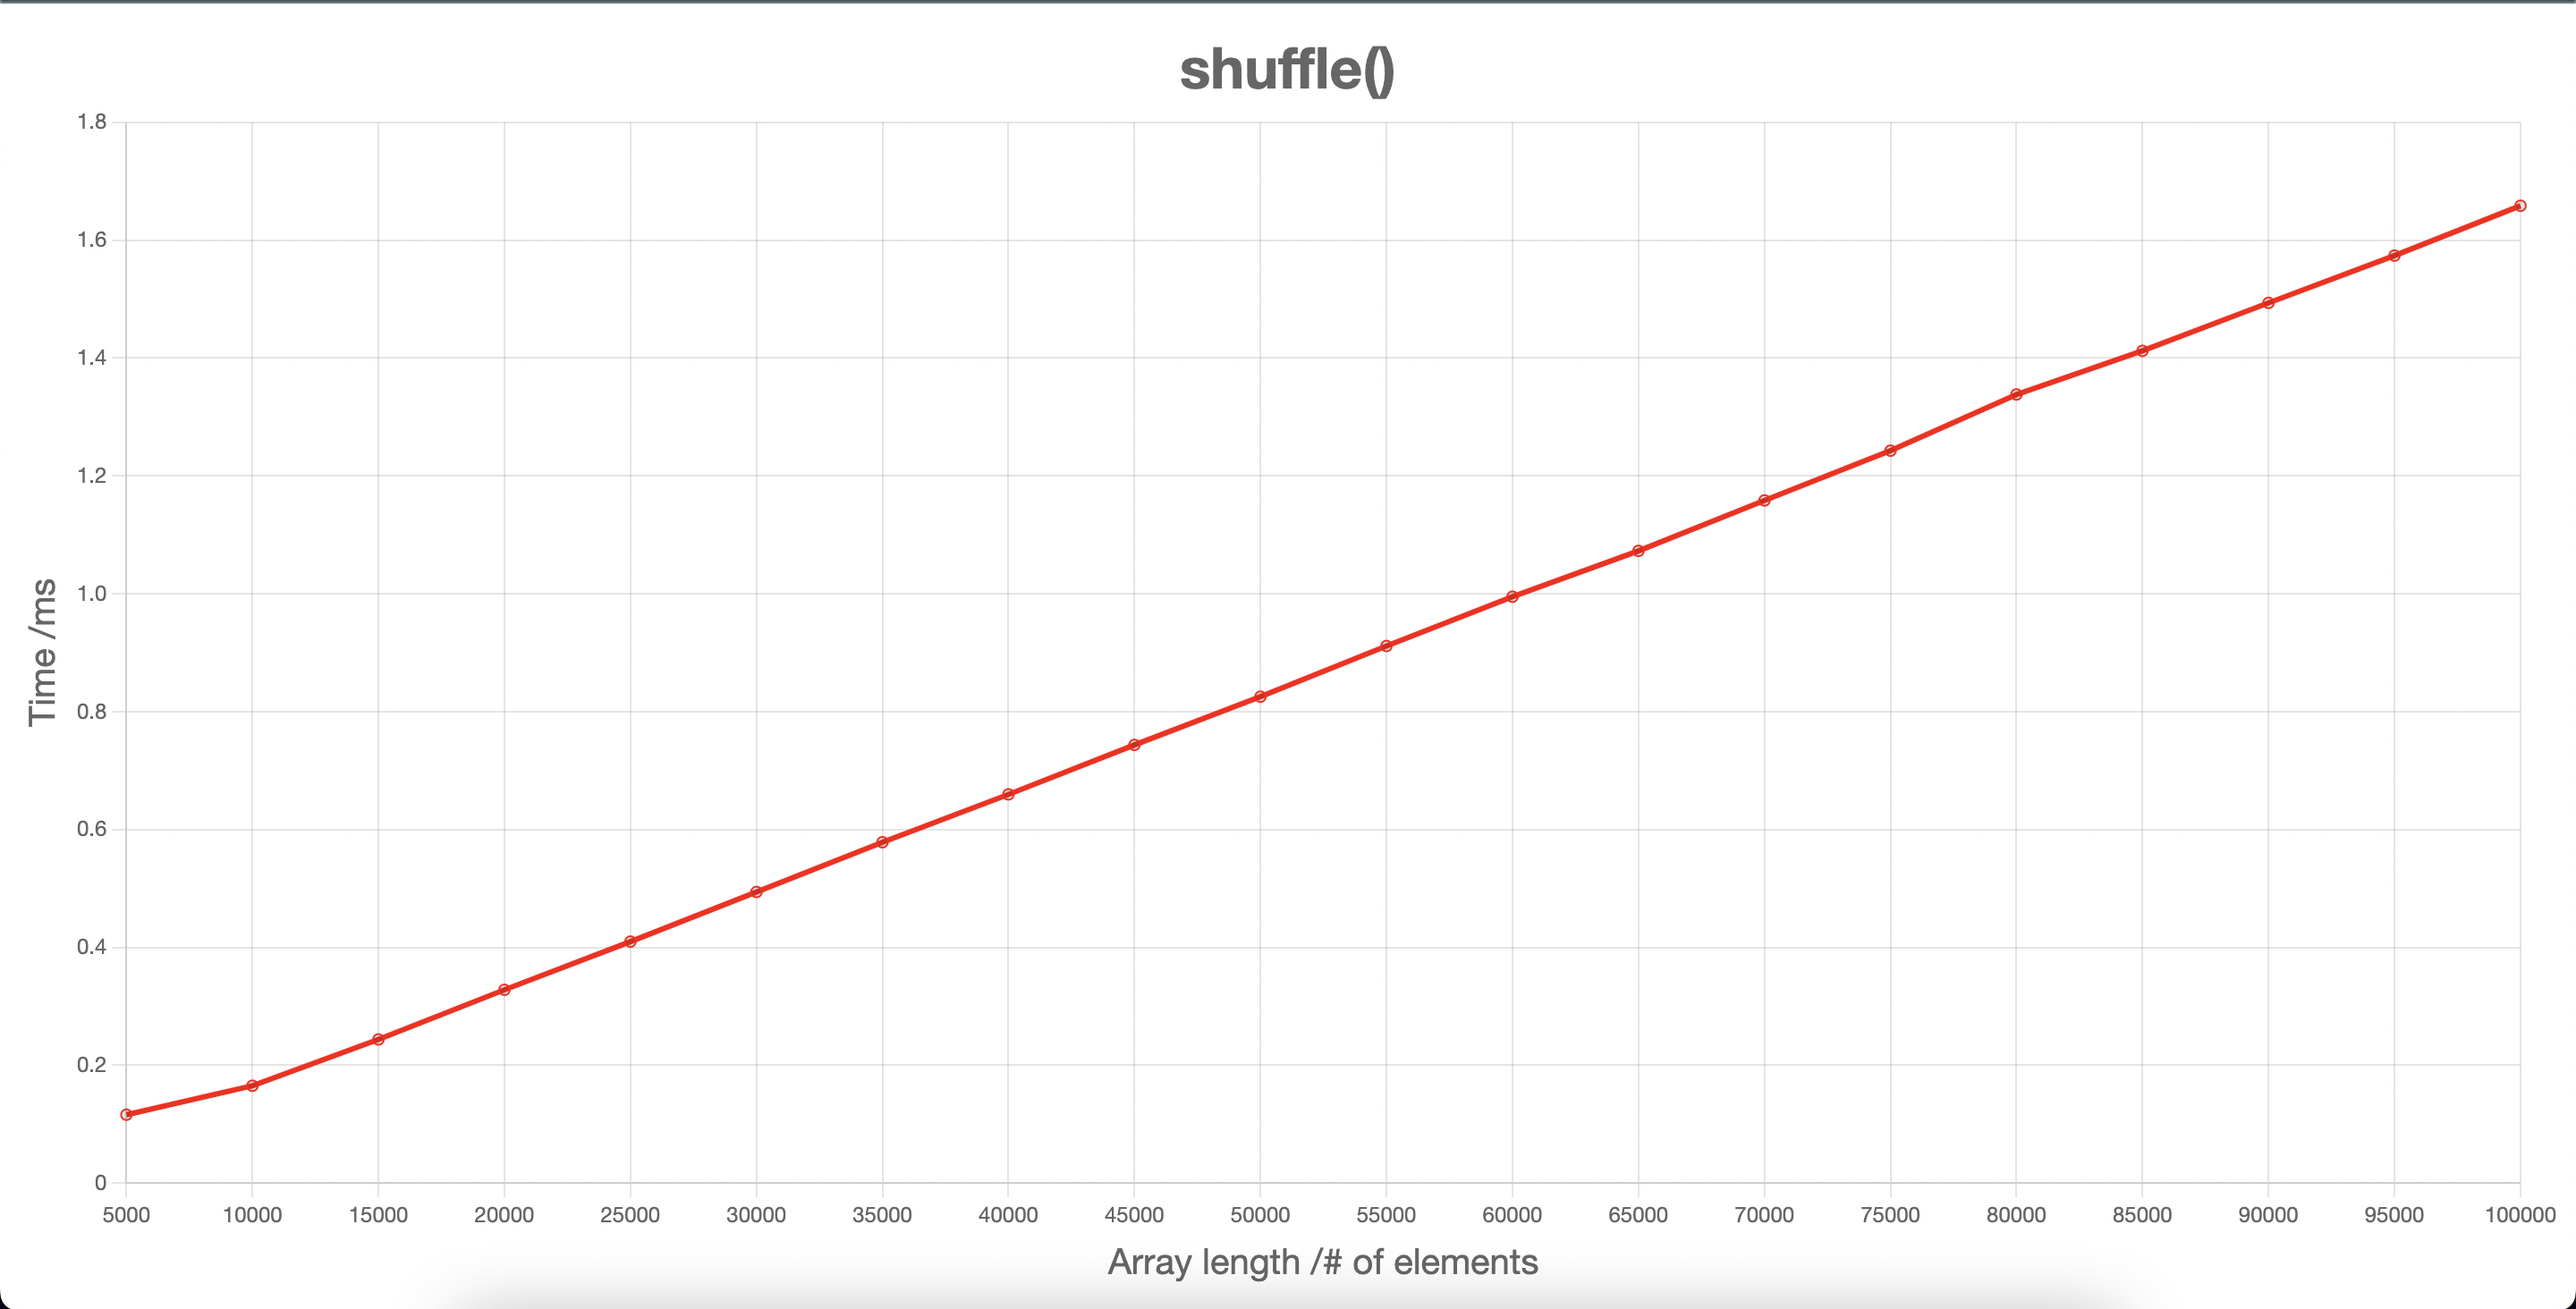
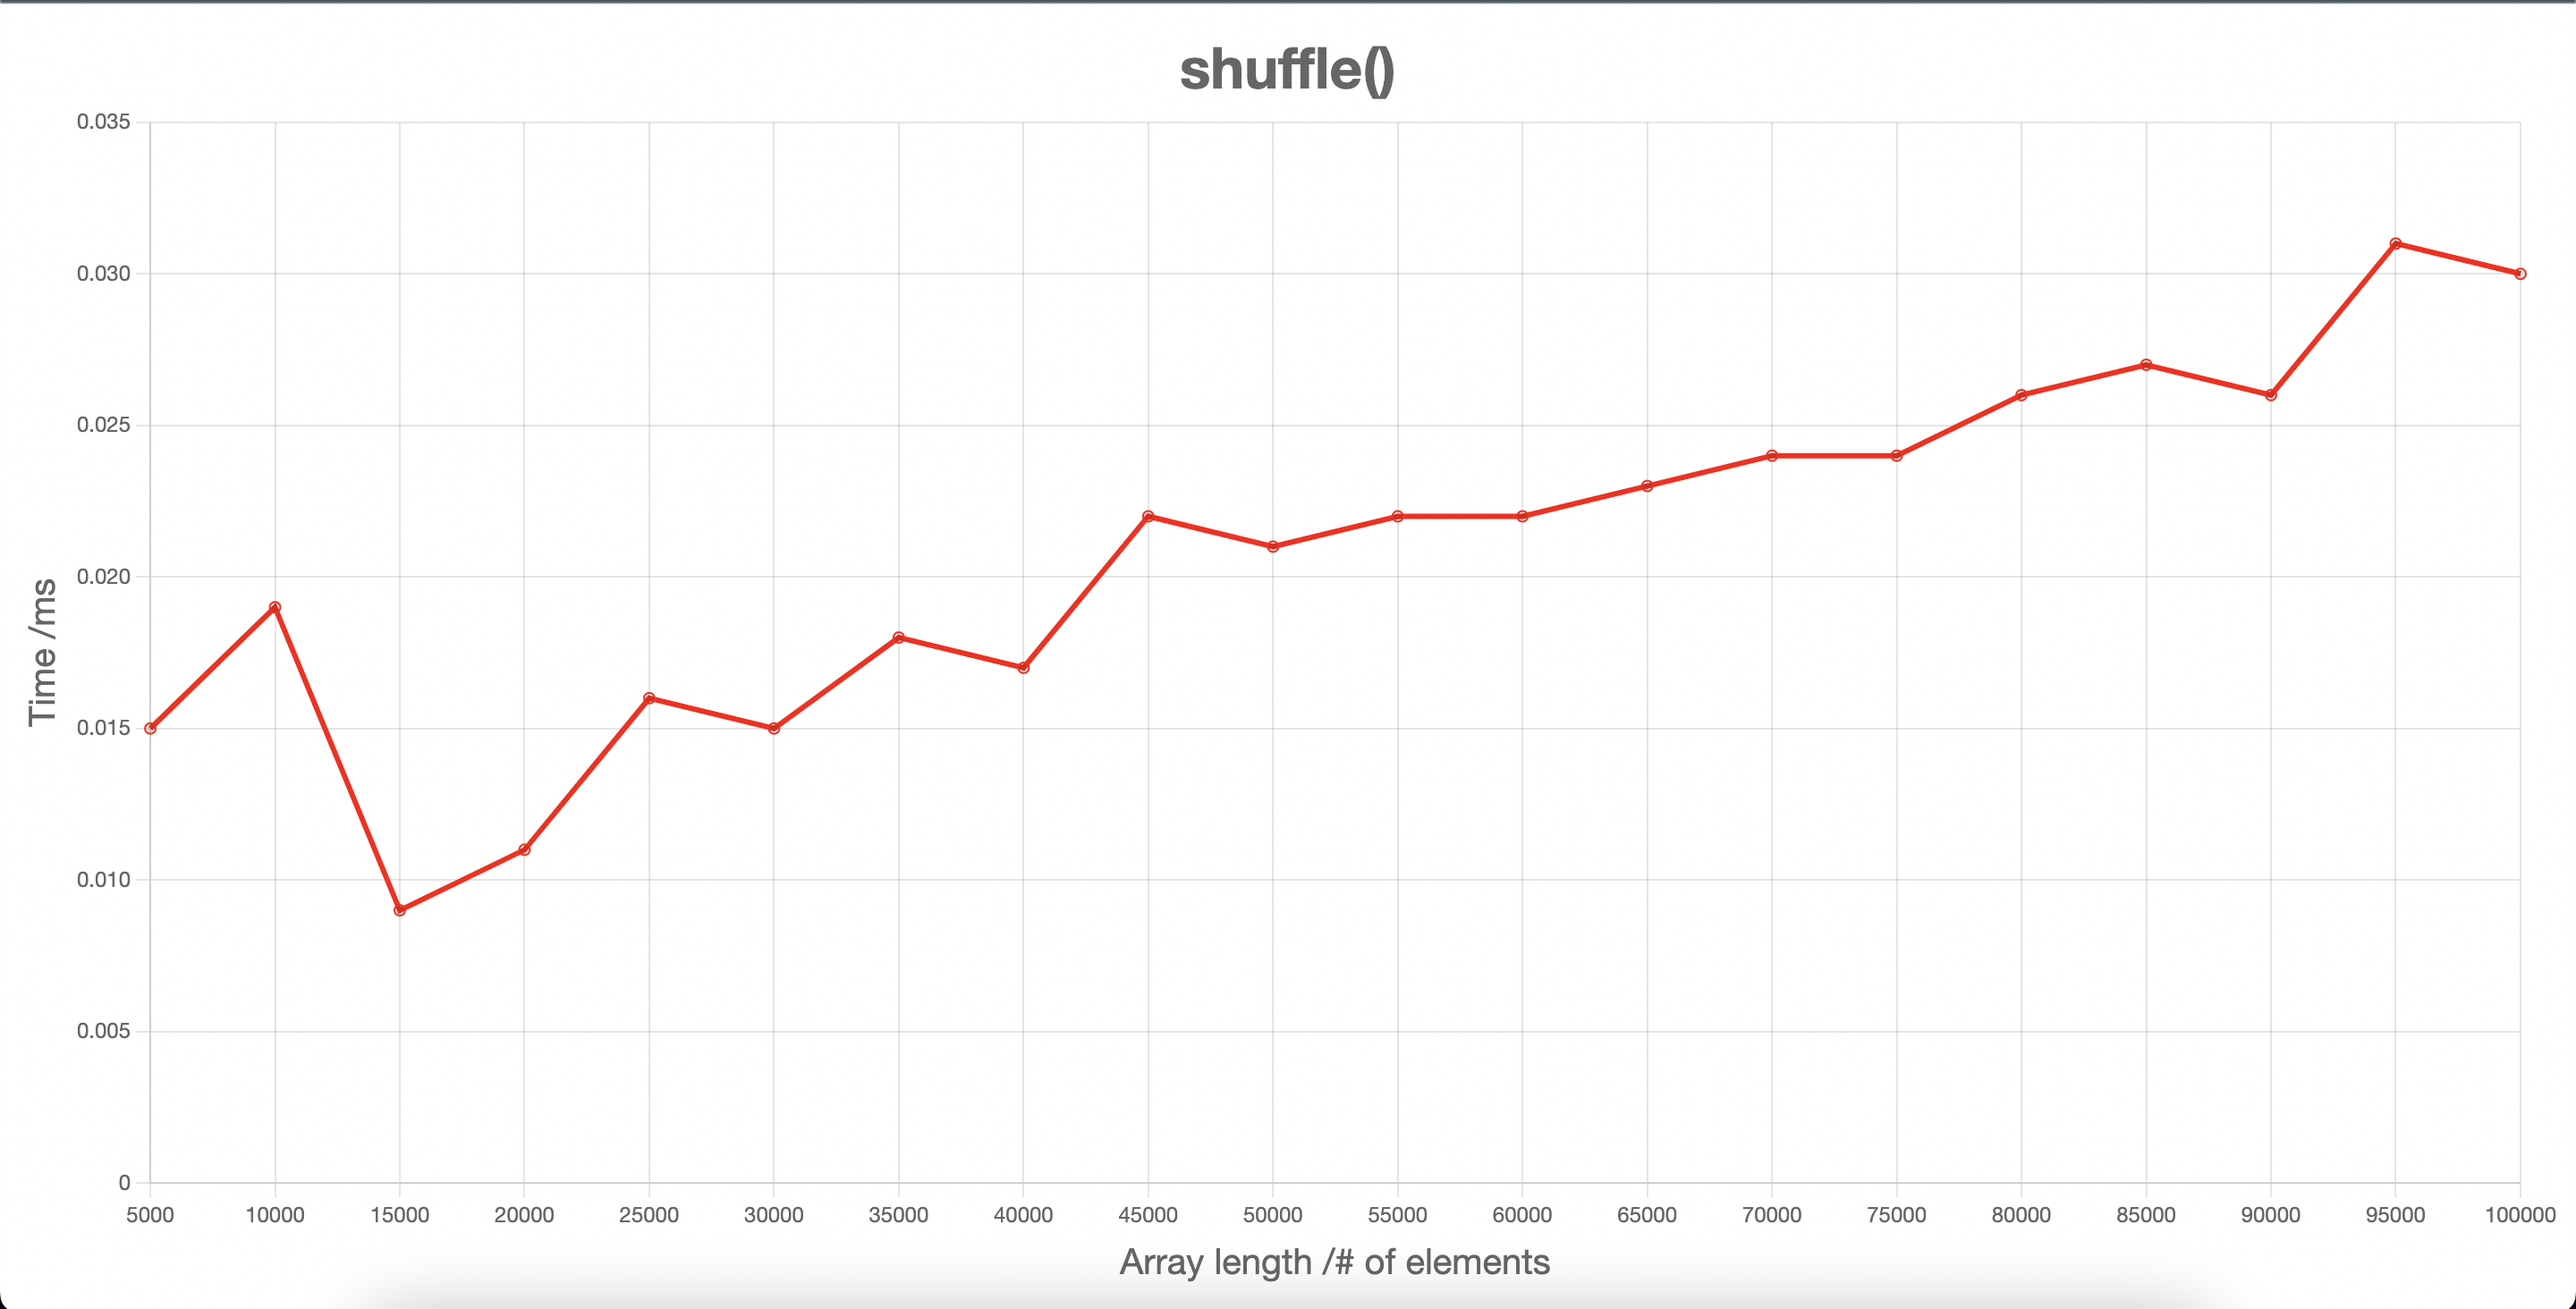
Big changes
Tidy up a lot of the code and graphs so that feature tests are faster.
Make the timing graph for the merge sort function.

diff --git a/custom-algorithms/sort/plotSort.js b/custom-algorithms/sort/plotSort.js
@@ -1,14 +1,15 @@
 /* eslint-disable no-undef */
 const Chart = require("chart.js");
+const createSortDataPoint = require("./createSortDataPoint");
 const saveData = require("../saveData");
-const duplicate = require("./duplicate");
+const sort = require("./sort");
 
 const xValues = [];
 for (i = 1; i < 21; i++) {
-  xValues.push(5000 * i);
+  xValues.push(50 * i);
 }
 
-const yValues = saveData(duplicate, 100);
+const yValues = saveData(sort, 100, 50, createSortDataPoint);
 
 new Chart("myChart", {
   type: "line",
@@ -29,7 +30,7 @@ new Chart("myChart", {
         font: {
           size: 32,
         },
-        text: "duplicate()",
+        text: "merge sort",
       },
       legend: {
         display: false,

diff --git a/custom-algorithms/saveData.js b/custom-algorithms/saveData.js
@@ -4,13 +4,14 @@ const createDataPoint = require("./createDataPoint");
 const saveData = (
   callbackOne,
   numbeOfMeasurements,
-  callbackTwo = generateArray,
-  callbackThree = createDataPoint
+  increment = 5000,
+  callbackTwo = createDataPoint,
+  callbackThree = generateArray
 ) => {
   const data = [];
   for (let i = 1; i < 21; i++) {
-    const array = callbackTwo(5000 * i);
-    const y = callbackThree(array, callbackOne, numbeOfMeasurements, 10000);
+    const array = callbackThree(increment * i);
+    const y = callbackTwo(array, callbackOne, numbeOfMeasurements, 10000);
     data.push(y);
   }
   return data;

diff --git a/custom-algorithms/sort/createSortDataPoint.test.js b/custom-algorithms/sort/createSortDataPoint.test.js
@@ -1,0 +1,11 @@
+/* eslint-disable no-undef */
+const createSortDataPoint = require("./createSortDataPoint");
+
+describe(createSortDataPoint, () => {
+  it("returns an average for the time taken of a callback from 1,000,000 iterations", () => {
+    const mockCallback = jest.fn();
+    const time = createSortDataPoint([1, 2, 3, 4, 5], mockCallback, 1000000);
+    expect(mockCallback).toHaveBeenCalledTimes(1000000);
+    expect(typeof time).toBe("number");
+  });
+});

diff --git a/array-functions/saveData.test.js b/array-functions/saveData.test.js
@@ -5,7 +5,7 @@ describe(saveData, () => {
   it("calls the callback functions to make the data points", () => {
     const mockCallbackOne = jest.fn();
     const mockCallbackTwo = jest.fn();
-    expect(saveData(1, mockCallbackOne, mockCallbackTwo).length).toBe(20);
+    expect(saveData(1, 5000, mockCallbackOne, mockCallbackTwo).length).toBe(20);
     expect(mockCallbackOne).toHaveBeenCalledTimes(20);
     expect(mockCallbackTwo).toHaveBeenCalledTimes(20);
   });

diff --git a/custom-algorithms/shuffle/shuffle.js b/custom-algorithms/shuffle/shuffle.js
@@ -1,9 +1,10 @@
 const shuffle = (array) => {
-  const newArray = new Array(array.length);
-  for (let i = 0; i < newArray.length; i++) {
+  const newArray = [];
+  while (array.length > 0) {
     const index = Math.floor(Math.random() * array.length);
-    newArray[i] = array[index];
-    array.splice(index, 1);
+    newArray.push(array[index]);
+    array[index] = array[array.length - 1];
+    array.splice(array.length - 1, 1);
   }
   return newArray;
 };

diff --git a/custom-algorithms/saveData.test.js b/custom-algorithms/saveData.test.js
@@ -7,7 +7,8 @@ describe(saveData, () => {
     const mockCallbackTwo = jest.fn();
     const mockCallbackThree = jest.fn();
     expect(
-      saveData(mockCallbackOne, 10, mockCallbackTwo, mockCallbackThree).length
+      saveData(mockCallbackOne, 10, 5000, mockCallbackTwo, mockCallbackThree)
+        .length
     ).toBe(20);
     expect(mockCallbackTwo).toHaveBeenCalledTimes(20);
     expect(mockCallbackThree).toHaveBeenCalledTimes(20);

diff --git a/array-functions/saveData.js b/array-functions/saveData.js
@@ -3,12 +3,13 @@ const createDataPoint = require("./createDataPoint");
 
 const saveData = (
   numFunc,
+  increment = 5000,
   callbackOne = generateArray,
   callbackTwo = createDataPoint
 ) => {
   const data = [];
   for (let i = 1; i < 21; i++) {
-    const array = callbackOne(5000 * i);
+    const array = callbackOne(increment * i);
     const y = callbackTwo(array, numFunc);
     data.push(y);
   }

diff --git a/custom-algorithms/sort/createSortDataPoint.js b/custom-algorithms/sort/createSortDataPoint.js
@@ -1,0 +1,12 @@
+const createDataPoint = (input, callback, numberOfMeasurements) => {
+  let cumulative = 0;
+  for (let i = 0; i < numberOfMeasurements; i++) {
+    const startTime = performance.now();
+    callback(input);
+    const endTime = performance.now();
+    cumulative += endTime - startTime;
+  }
+  return cumulative / numberOfMeasurements;
+};
+
+module.exports = createDataPoint;

diff --git a/custom-algorithms/sub-sequence-sum/feature.test.js b/custom-algorithms/sub-sequence-sum/feature.test.js
@@ -2,7 +2,7 @@
 const saveData = require("../saveData");
 const subSequenceSum = require("./subSequenceSum");
 
-xtest("creates a set of 20 data points for timing fibonacci()", () => {
-  const data = saveData(subSequenceSum, 1);
+test("creates a set of 20 data points for timing fibonacci()", () => {
+  const data = saveData(subSequenceSum, 100, 100);
   expect(data.length).toBe(20);
 });

diff --git a/custom-algorithms/sort/feature.test.js b/custom-algorithms/sort/feature.test.js
@@ -1,0 +1,9 @@
+/* eslint-disable no-undef */
+const createSortDataPoint = require("./createSortDataPoint");
+const saveData = require("../saveData");
+const sort = require("./sort");
+
+test("creates a set of 20 data points for timings of sort()", () => {
+  const data = saveData(sort, 50, 50, createSortDataPoint);
+  expect(data.length).toBe(20);
+});

diff --git a/custom-algorithms/sub-sequence-sum/plotSubSequenceSum.js b/custom-algorithms/sub-sequence-sum/plotSubSequenceSum.js
@@ -5,10 +5,10 @@ const subSequenceSum = require("./subSequenceSum");
 
 const xValues = [];
 for (i = 1; i < 21; i++) {
-  xValues.push(5000 * i);
+  xValues.push(100 * i);
 }
 
-const yValues = saveData(subSequenceSum, 1);
+const yValues = saveData(subSequenceSum, 500, 100);
 
 new Chart("myChart", {
   type: "line",

diff --git a/custom-algorithms/duplicate/feature.test.js b/custom-algorithms/duplicate/feature.test.js
@@ -3,6 +3,6 @@ const saveData = require("../saveData");
 const duplicate = require("./duplicate");
 
 test("saves a set of 20 data points for timing duplicate()", () => {
-  const data = saveData(duplicate, 50);
+  const data = saveData(duplicate, 100, 500);
   expect(data.length).toBe(20);
 });
